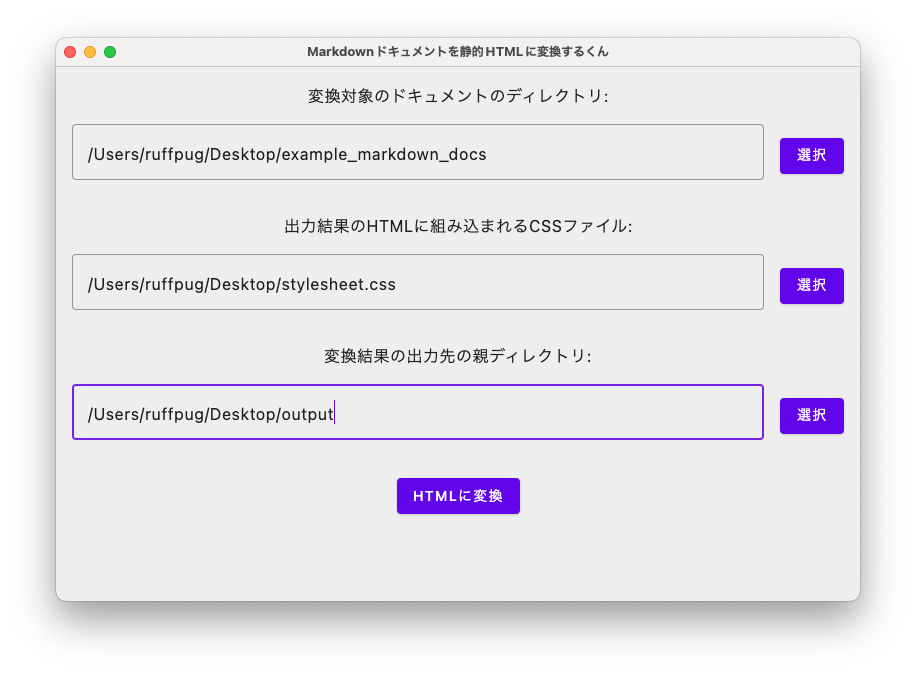
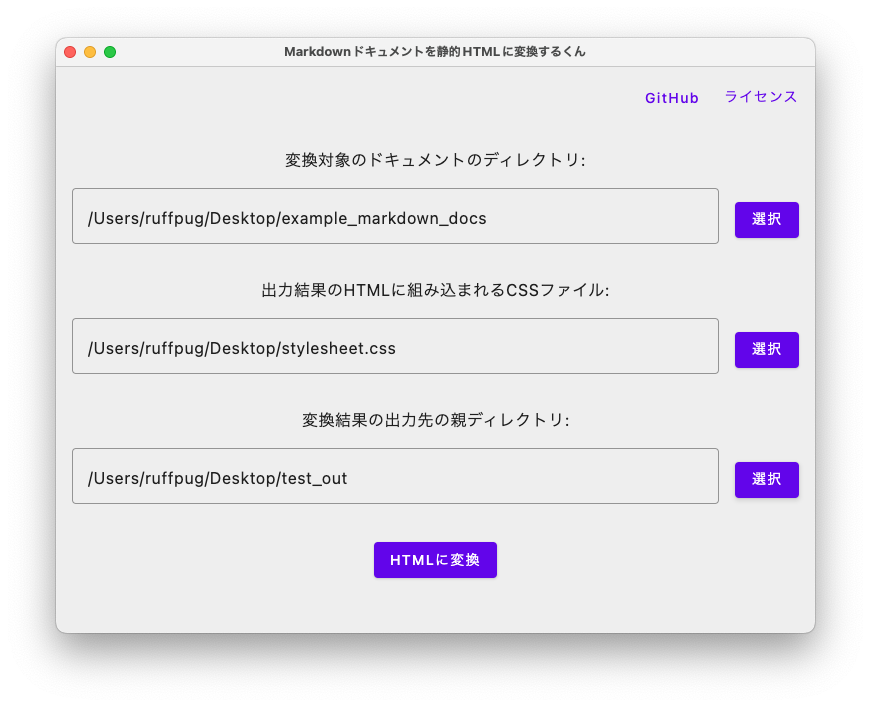
ライセンスダイアログを実装

diff --git a/composeApp/src/desktopMain/kotlin/net/ruffpug/markdownstatichtmlkun/MainWindow.kt b/composeApp/src/desktopMain/kotlin/net/ruffpug/markdownstatichtmlkun/MainWindow.kt
@@ -1,5 +1,6 @@
 package net.ruffpug.markdownstatichtmlkun
 
+import androidx.compose.foundation.layout.Arrangement
 import androidx.compose.foundation.layout.Column
 import androidx.compose.foundation.layout.Row
 import androidx.compose.foundation.layout.fillMaxWidth
@@ -9,6 +10,7 @@ import androidx.compose.material.CircularProgressIndicator
 import androidx.compose.material.MaterialTheme
 import androidx.compose.material.OutlinedTextField
 import androidx.compose.material.Text
+import androidx.compose.material.TextButton
 import androidx.compose.runtime.Composable
 import androidx.compose.runtime.LaunchedEffect
 import androidx.compose.runtime.collectAsState
@@ -26,11 +28,14 @@ import io.github.vinceglb.filekit.compose.rememberFilePickerLauncher
 import io.github.vinceglb.filekit.core.PickerType
 import java.awt.Desktop
 import java.io.File
+import java.net.URI
 import markdownstatichtmlkun.composeapp.generated.resources.Res
 import markdownstatichtmlkun.composeapp.generated.resources.css_picker_title
 import markdownstatichtmlkun.composeapp.generated.resources.main_window_convert_button
 import markdownstatichtmlkun.composeapp.generated.resources.main_window_css_file_path_label
 import markdownstatichtmlkun.composeapp.generated.resources.main_window_css_file_path_select_button
+import markdownstatichtmlkun.composeapp.generated.resources.main_window_github_button
+import markdownstatichtmlkun.composeapp.generated.resources.main_window_license_button
 import markdownstatichtmlkun.composeapp.generated.resources.main_window_output_directory_path_label
 import markdownstatichtmlkun.composeapp.generated.resources.main_window_output_directory_path_select_button
 import markdownstatichtmlkun.composeapp.generated.resources.main_window_target_directory_path_label
@@ -64,6 +69,7 @@ internal fun MainWindow(
                 var conversionResultMessageDialogState: ConversionResultMessageDialogState by remember {
                     mutableStateOf(ConversionResultMessageDialogState.NotShown)
                 }
+                var isLicenseDialogShown: Boolean by remember { mutableStateOf(false) }
 
                 //  対象ディレクトリ選択ダイアログのLauncher
                 val targetDirPickerLauncher = rememberDirectoryPickerLauncher(
@@ -92,6 +98,29 @@ internal fun MainWindow(
                     viewModel.displayingConversionResultMessageRequested.collect { result: DocsConversionResult ->
                         //  変換結果メッセージダイアログを表示する。
                         conversionResultMessageDialogState = ConversionResultMessageDialogState.Shown(result = result)
+                    }
+                }
+
+                //  上部ボタン群
+                Row(
+                    modifier = Modifier.fillMaxWidth(),
+                    verticalAlignment = Alignment.CenterVertically,
+                    horizontalArrangement = Arrangement.End,
+                ) {
+                    //  GitHubボタン
+                    TextButton(
+                        modifier = Modifier.padding(8.dp, 8.dp, 4.dp, 8.dp),
+                        onClick = ::openGitHubPageInBrowser,
+                    ) {
+                        Text(stringResource(Res.string.main_window_github_button))
+                    }
+
+                    //  ライセンスボタン
+                    TextButton(
+                        modifier = Modifier.padding(4.dp, 8.dp, 8.dp, 8.dp),
+                        onClick = { isLicenseDialogShown = true },
+                    ) {
+                        Text(stringResource(Res.string.main_window_license_button))
                     }
                 }
 
@@ -214,6 +243,11 @@ internal fun MainWindow(
                         },
                     )
                 }
+
+                //  ライセンスダイアログ
+                if (isLicenseDialogShown) {
+                    LicenseDialog(onDismissRequest = { isLicenseDialogShown = false })
+                }
             }
         }
     }
@@ -228,5 +262,17 @@ private fun openOutputDirectory(outputDirectoryPath: String) {
         Logger.d(LOG_TAG) { "出力先表示 終了: $outputDirectoryPath" }
     } catch (e: Exception) {
         Logger.d(LOG_TAG, e) { "出力先表示 例外: $outputDirectoryPath" }
+    }
+}
+
+//  GitHubページをブラウザで表示する。
+private fun openGitHubPageInBrowser() {
+    try {
+        Logger.d(LOG_TAG) { "GitHubページ表示 開始" }
+        val url = "https://github.com/ruffpug/MarkdownStaticHtmlKun"
+        Desktop.getDesktop().browse(URI(url))
+        Logger.d(LOG_TAG) { "GitHubページ表示 終了" }
+    } catch (e: Exception) {
+        Logger.d(LOG_TAG, e) { "GitHubページ表示 例外" }
     }
 }

diff --git a/composeApp/src/desktopMain/kotlin/net/ruffpug/markdownstatichtmlkun/LicenseDialog.kt b/composeApp/src/desktopMain/kotlin/net/ruffpug/markdownstatichtmlkun/LicenseDialog.kt
@@ -1,0 +1,49 @@
+package net.ruffpug.markdownstatichtmlkun
+
+import androidx.compose.foundation.layout.fillMaxSize
+import androidx.compose.foundation.layout.padding
+import androidx.compose.runtime.Composable
+import androidx.compose.runtime.getValue
+import androidx.compose.ui.Modifier
+import androidx.compose.ui.res.useResource
+import androidx.compose.ui.unit.dp
+import androidx.compose.ui.window.Dialog
+import co.touchlab.kermit.Logger
+import com.mikepenz.aboutlibraries.Libs
+import com.mikepenz.aboutlibraries.entity.Library
+import com.mikepenz.aboutlibraries.ui.compose.LibrariesContainer
+import com.mikepenz.aboutlibraries.ui.compose.rememberLibraries
+import java.awt.Desktop
+import java.net.URI
+
+private const val LOG_TAG: String = "LicenseDialog"
+
+/**
+ * ライセンスダイアログ
+ */
+@Composable
+internal fun LicenseDialog(onDismissRequest: () -> Unit, onLibraryClick: (Library) -> Unit = ::handleLibraryClicked) {
+    val libraries: Libs? by rememberLibraries {
+        useResource("aboutlibraries.json") { res -> res.bufferedReader().readText() }
+    }
+
+    Dialog(onDismissRequest = onDismissRequest) {
+        LibrariesContainer(
+            modifier = Modifier.fillMaxSize().padding(16.dp),
+            libraries = libraries,
+            onLibraryClick = onLibraryClick,
+        )
+    }
+}
+
+//  ライブラリの押下をハンドリングする。
+private fun handleLibraryClicked(library: Library) {
+    try {
+        Logger.d(LOG_TAG) { "ライブラリブラウザ表示 開始: $library" }
+        val url: String? = library.website
+        if (url != null) Desktop.getDesktop().browse(URI(url))
+        Logger.d(LOG_TAG) { "ライブラリブラウザ表示 終了: $library" }
+    } catch (e: Exception) {
+        Logger.d(LOG_TAG, e) { "ライブラリブラウザ表示 例外: $library" }
+    }
+}
